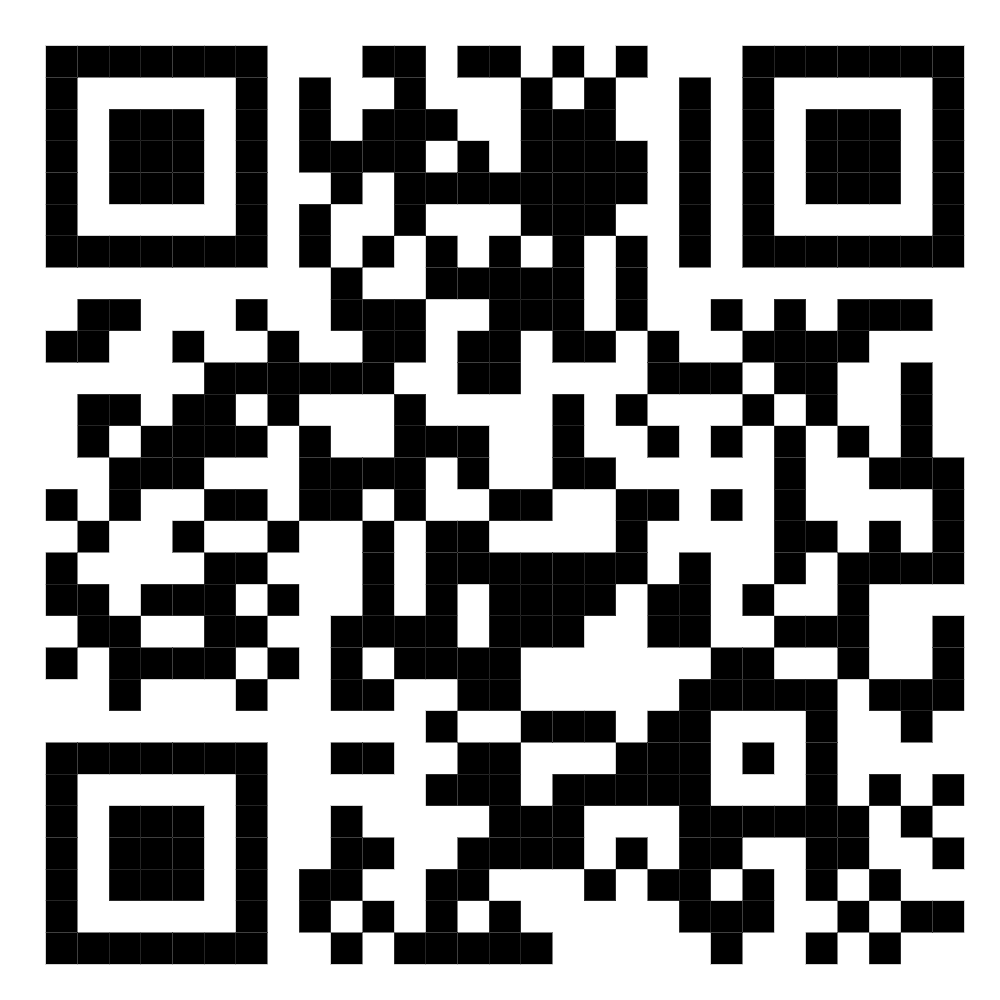
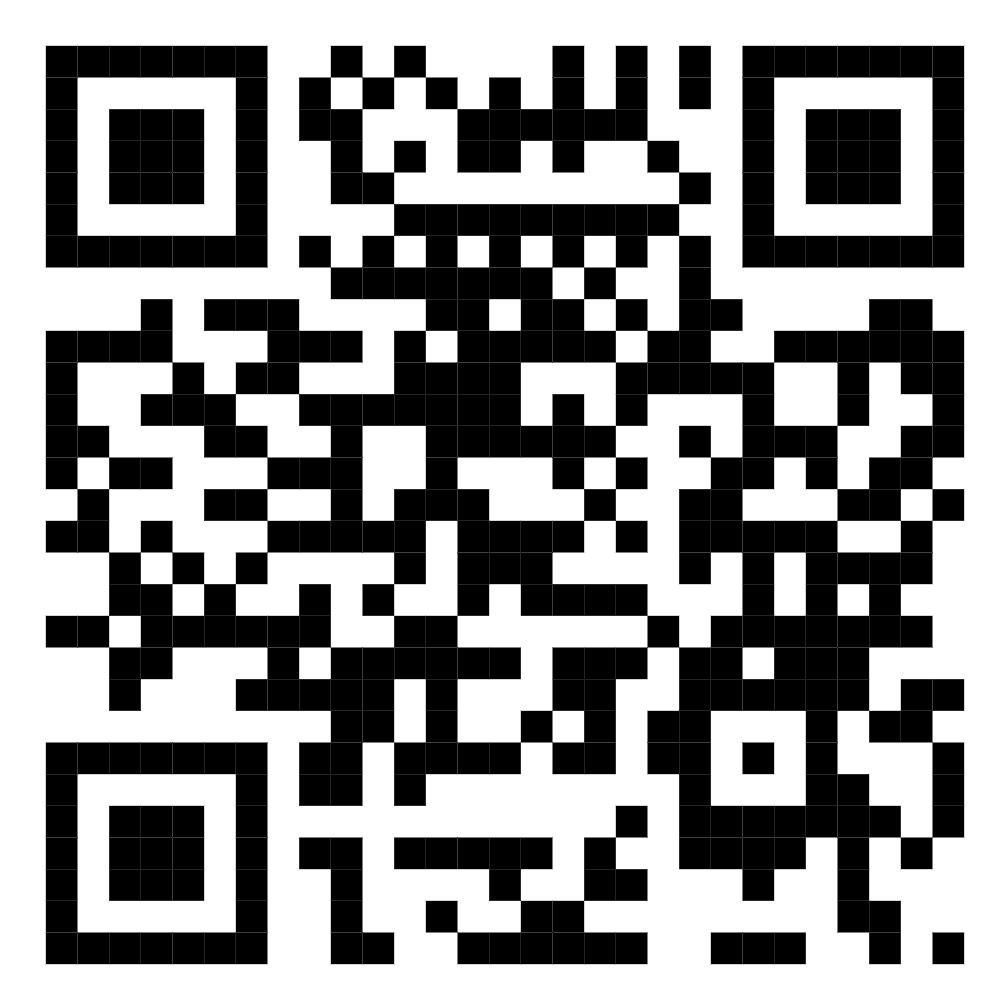
홈 화면 설정

diff --git a/thinq-parent-frontend/demo-booth.html b/thinq-parent-frontend/demo-booth.html
@@ -744,12 +744,7 @@
       width: 90px; height: 90px;
       background: #fff;
       border-radius: 14px;
-      display: flex;
-      align-items: center;
-      justify-content: center;
-      font-size: 12px;
-      color: #999;
-      font-weight: 700;
+      overflow: hidden;
       text-align: center;
       flex-shrink: 0;
     }
@@ -1270,11 +1265,12 @@
 
         <div class="right-bottom">
           <div class="qr-area">
-            <div class="qr-box">QR</div>
+            <div class="qr-box"><img src="html_asset/ThinQ Parenting ModeQR.png" alt="QR" style="width:100%;height:100%;object-fit:cover;"></div>
             <div class="qr-text">
               <strong>직접 체험해보세요!</strong>
               QR 코드를 스캔하면<br/>바로 시연하실 수 있습니다
             </div>
+            <div class="qr-box"><img src="html_asset/Wifi QR.jpg" alt="Wifi QR" style="width:100%;height:100%;object-fit:cover;"></div>
           </div>
         </div>
       </div>
@@ -1551,7 +1547,7 @@
     let autoIdx = 0;
     let autoTimer = null;
     let idleTimer = null;
-    const AUTO_INTERVAL = 3500;
+    const AUTO_INTERVAL = 6000;
     const IDLE_DELAY = 10000;
 
     function autoNext() {

diff --git a/thinq-parent-frontend/src/App.css b/thinq-parent-frontend/src/App.css
@@ -1182,11 +1182,13 @@ select {
 .parent-mode-cards-row {
   margin-top: 8px;
   display: grid;
-  grid-template-columns: 1fr 1fr;
+  grid-template-columns: repeat(2, minmax(0, 1fr));
   gap: 6px;
 }
 
 .parent-mode-card {
+  width: 100%;
+  min-width: 0;
   padding: 14px 12px;
   background: rgba(255, 255, 255, 0.8);
   border-radius: 11px;
